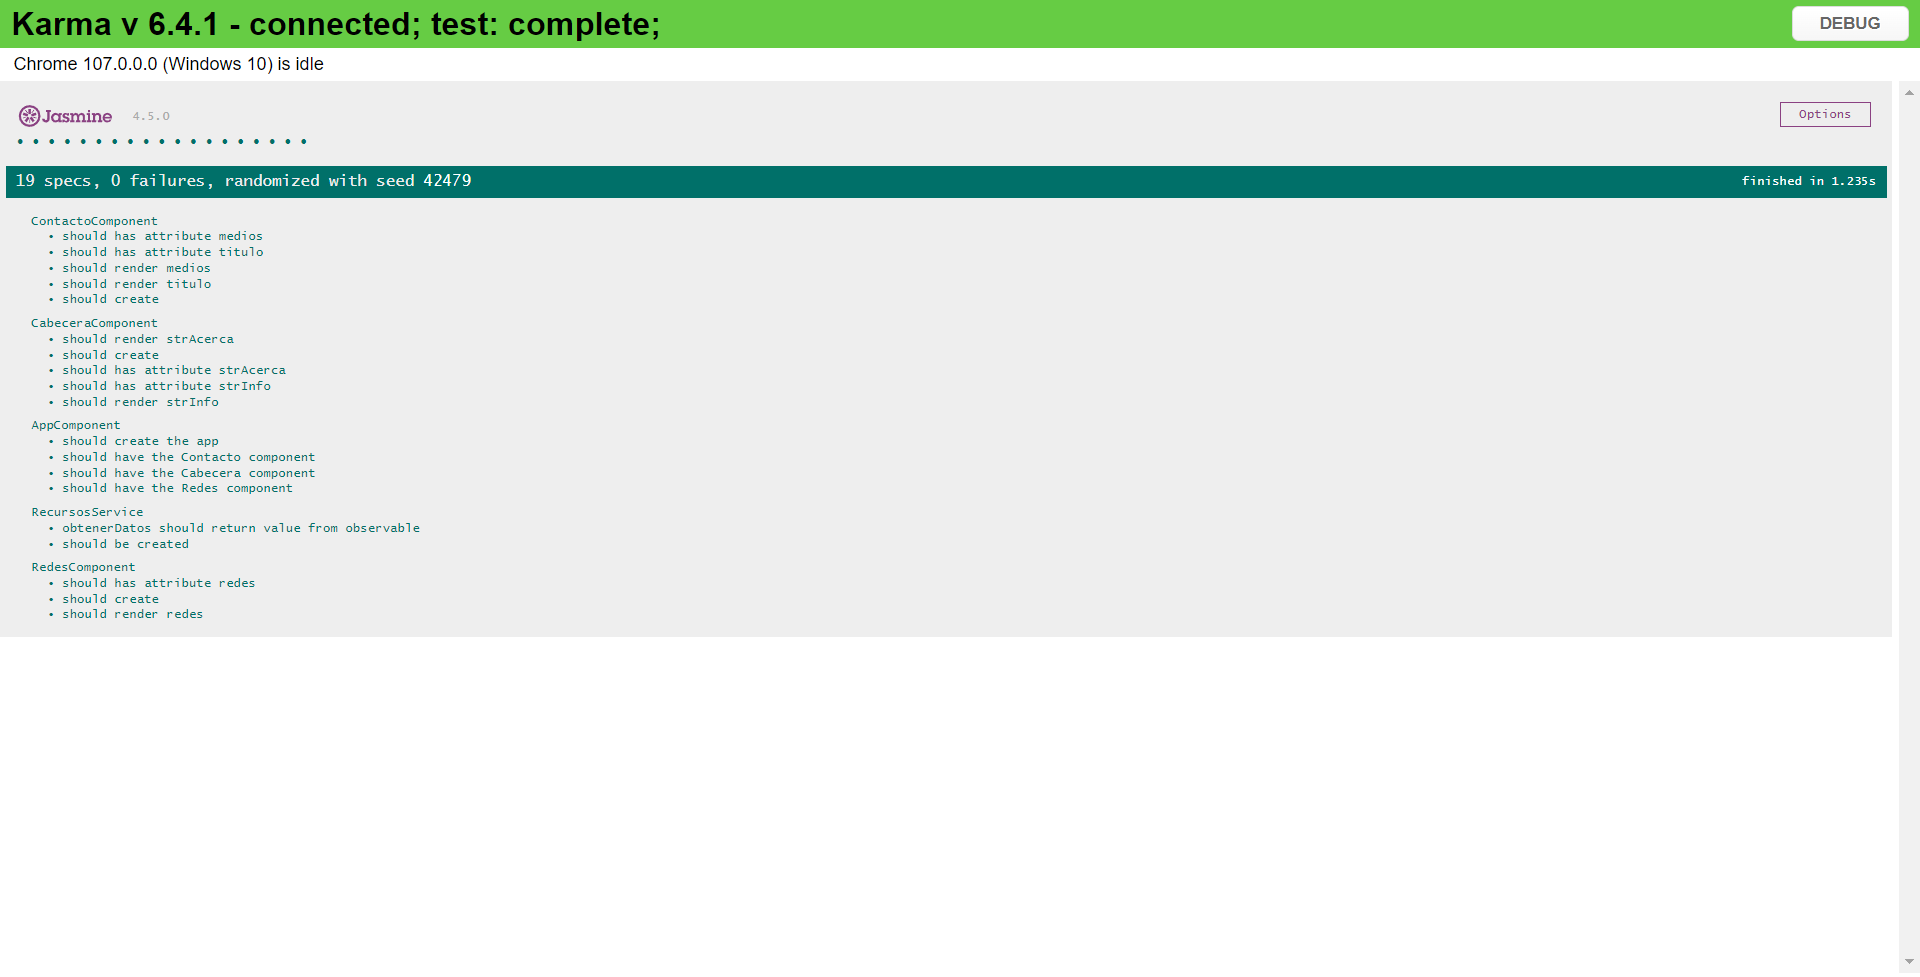
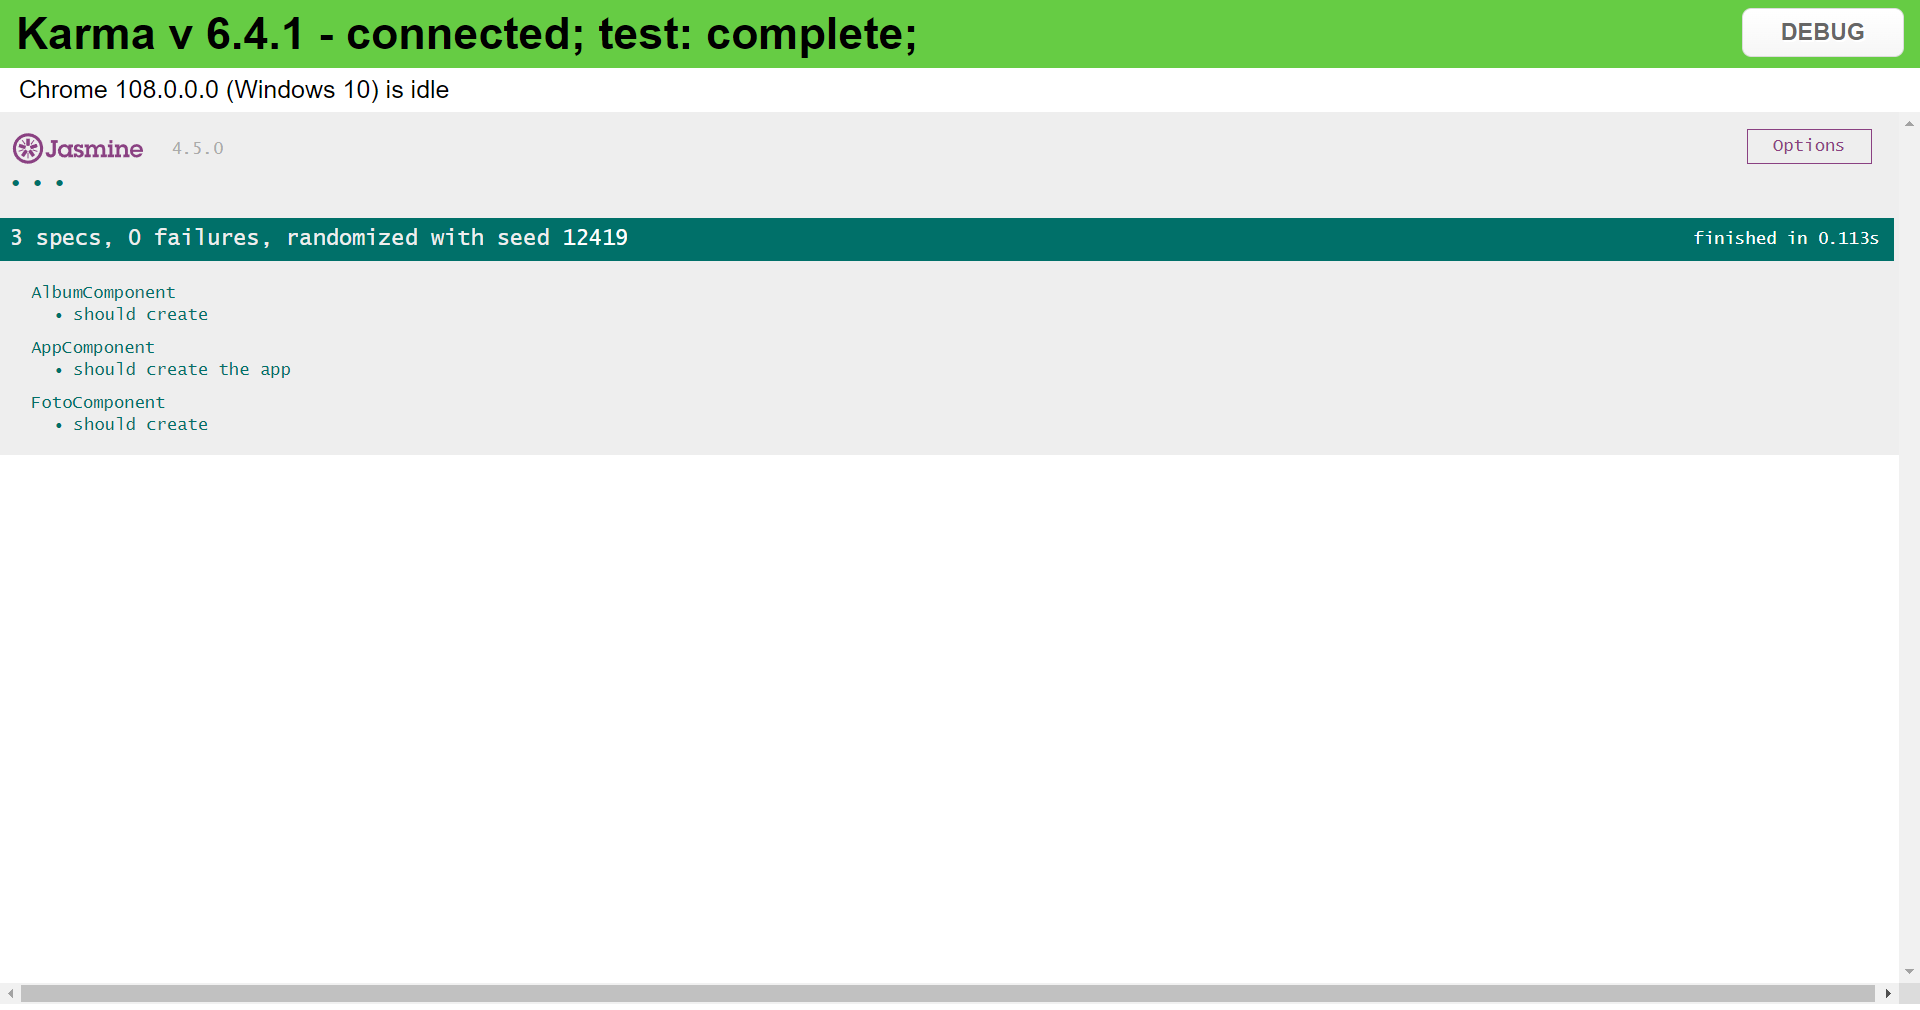
C04/EJ07

Changed region(s): [[0.0, 0.0, 1.0, 0.6448], [0.0, 0.9519, 1.0, 1.0]]

diff --git a/Capítulo 04/ejercicio07/specs/app.component.spec.ts b/Capítulo 04/ejercicio07/specs/app.component.spec.ts
@@ -2,24 +2,25 @@ import { TestBed } from '@angular/core/testing';
 import { RouterTestingModule } from '@angular/router/testing';
 import { AppComponent } from './app.component';
 
-import { ContactoComponent } from './contacto/contacto.component';
-import { CabeceraComponent } from './cabecera/cabecera.component';
-import { RedesComponent } from './redes/redes.component';
-
-import { HttpClientModule } from '@angular/common/http';
+import { BrowserAnimationsModule } from '@angular/platform-browser/animations';
+import { MatToolbarModule } from '@angular/material/toolbar';
+import {MatIconModule} from '@angular/material/icon';  
+import {MatButtonModule} from '@angular/material/button';
+import {MatSidenavModule} from '@angular/material/sidenav';
 
 describe('AppComponent', () => {
   beforeEach(async () => {
     await TestBed.configureTestingModule({
       imports: [
         RouterTestingModule,
-        HttpClientModule,
+        BrowserAnimationsModule,
+        MatToolbarModule,
+        MatIconModule,  
+        MatButtonModule,
+        MatSidenavModule
       ],
       declarations: [
-        AppComponent,
-        ContactoComponent,
-        CabeceraComponent,
-        RedesComponent
+        AppComponent
       ],
     }).compileComponents();
   });
@@ -30,25 +31,5 @@ describe('AppComponent', () => {
     expect(app).toBeTruthy();
   });
 
-  it('should have the Contacto component', () => {
-    const fixture = TestBed.createComponent(AppComponent);
-    fixture.detectChanges();
-    const compiled = fixture.debugElement.nativeElement;
-    expect(compiled.querySelector('app-contacto')).not.toBe(null);
-  });
 
-  it('should have the Cabecera component', () => {
-    const fixture = TestBed.createComponent(AppComponent);
-    fixture.detectChanges();
-    const compiled = fixture.debugElement.nativeElement;
-    expect(compiled.querySelector('app-cabecera')).not.toBe(null);
-  });
-
-  it('should have the Redes component', () => {
-    const fixture = TestBed.createComponent(AppComponent);
-    fixture.detectChanges();
-    const compiled = fixture.debugElement.nativeElement;
-    expect(compiled.querySelector('app-redes')).not.toBe(null);
-  });
-  
 });

diff --git a/Capítulo 04/ejercicio07/specs/foto.component.spec.ts b/Capítulo 04/ejercicio07/specs/foto.component.spec.ts
@@ -1,0 +1,25 @@
+import { ComponentFixture, TestBed } from '@angular/core/testing';
+
+import {MatCardModule} from '@angular/material/card';
+import { FotoComponent } from './foto.component';
+
+describe('FotoComponent', () => {
+  let component: FotoComponent;
+  let fixture: ComponentFixture<FotoComponent>;
+
+  beforeEach(async () => {
+    await TestBed.configureTestingModule({
+      declarations: [ FotoComponent ],
+      imports: [MatCardModule]
+    })
+    .compileComponents();
+
+    fixture = TestBed.createComponent(FotoComponent);
+    component = fixture.componentInstance;
+    fixture.detectChanges();
+  });
+
+  it('should create', () => {
+    expect(component).toBeTruthy();
+  });
+});

diff --git a/Capítulo 04/ejercicio07/README.md b/Capítulo 04/ejercicio07/README.md
@@ -17,7 +17,7 @@
 
 * Reemplace cada archivo de la carpeta **.spec.ts** por el archivo correspondiente **.spec.ts** en su proyecto de Angular.
 	+ `specs/app.component.spec.ts` por `src/app/app.component.spec.ts`
-	+ `specs/recursos.component.spec.ts` por `src/app/servicios/recursos.component.spec.ts`
+	+ `specs/foto.component.spec.ts` por `src/app/foto/foto.component.spec.ts`
 * En la ruta de su proyecto en Angular, desde la línea de comandos ejecute: `npm test`
 * Los resultados posibles a las pruebas unitarias pueden ser: 
 	![karma](imagenes/karma.png)
